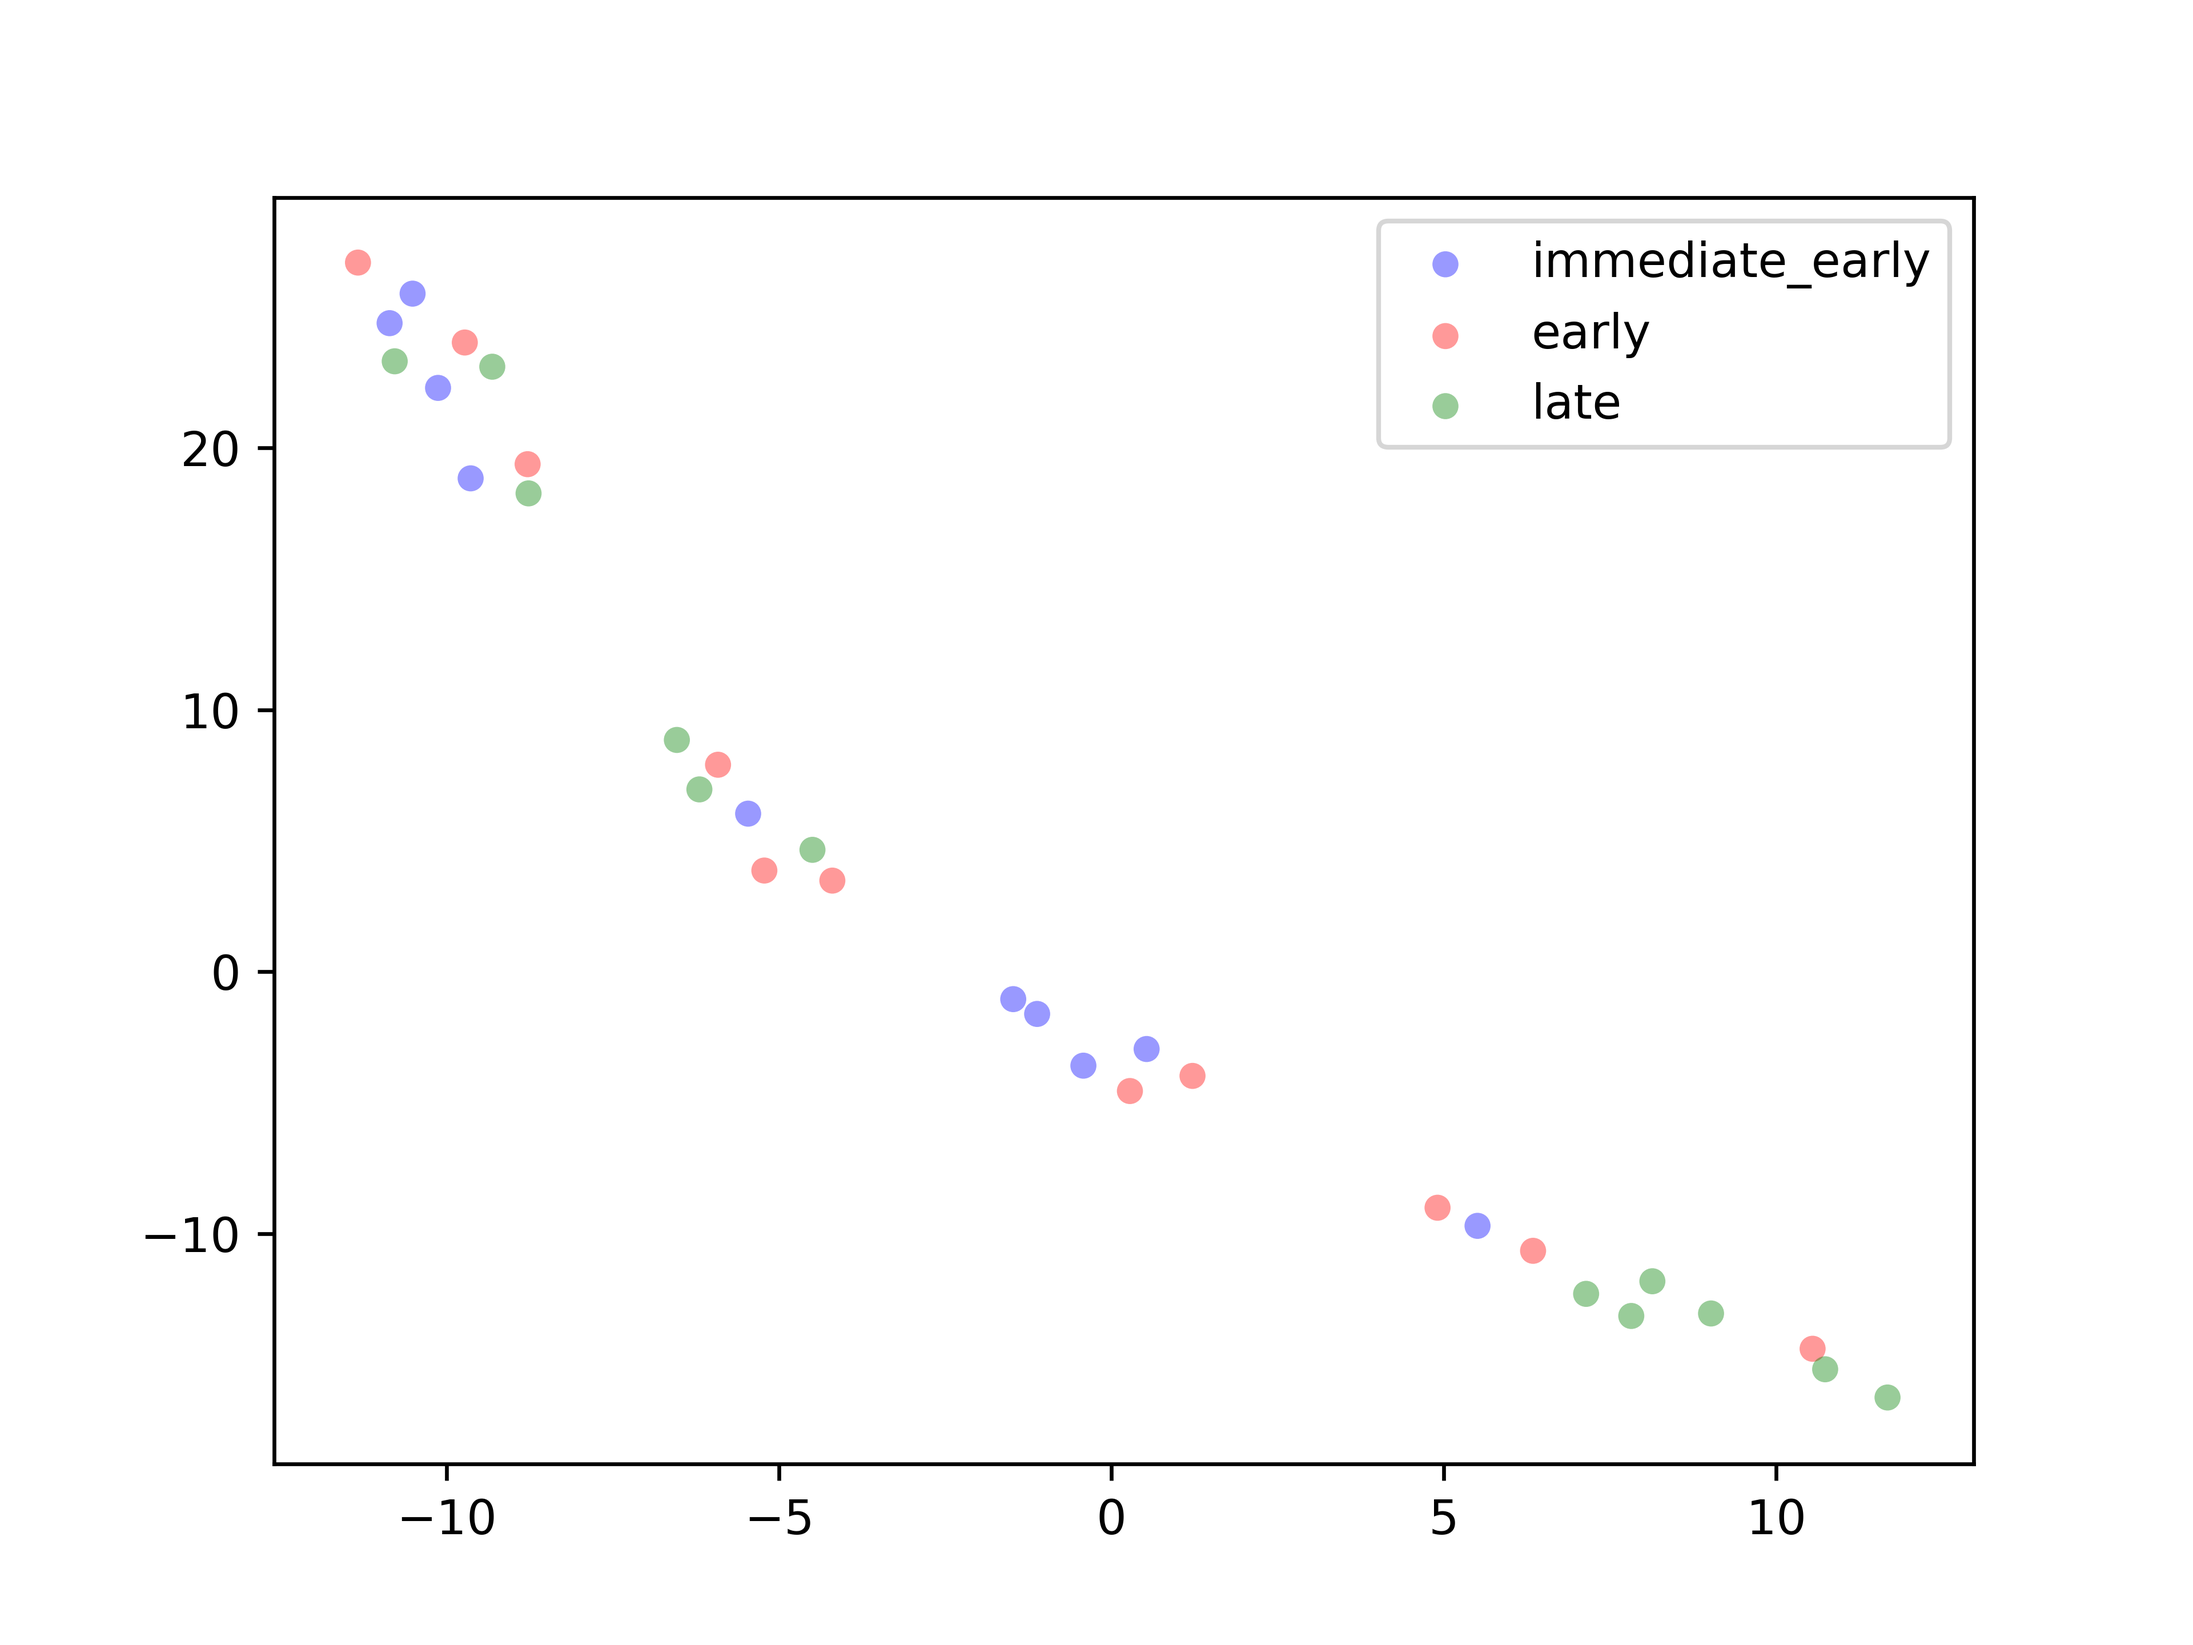
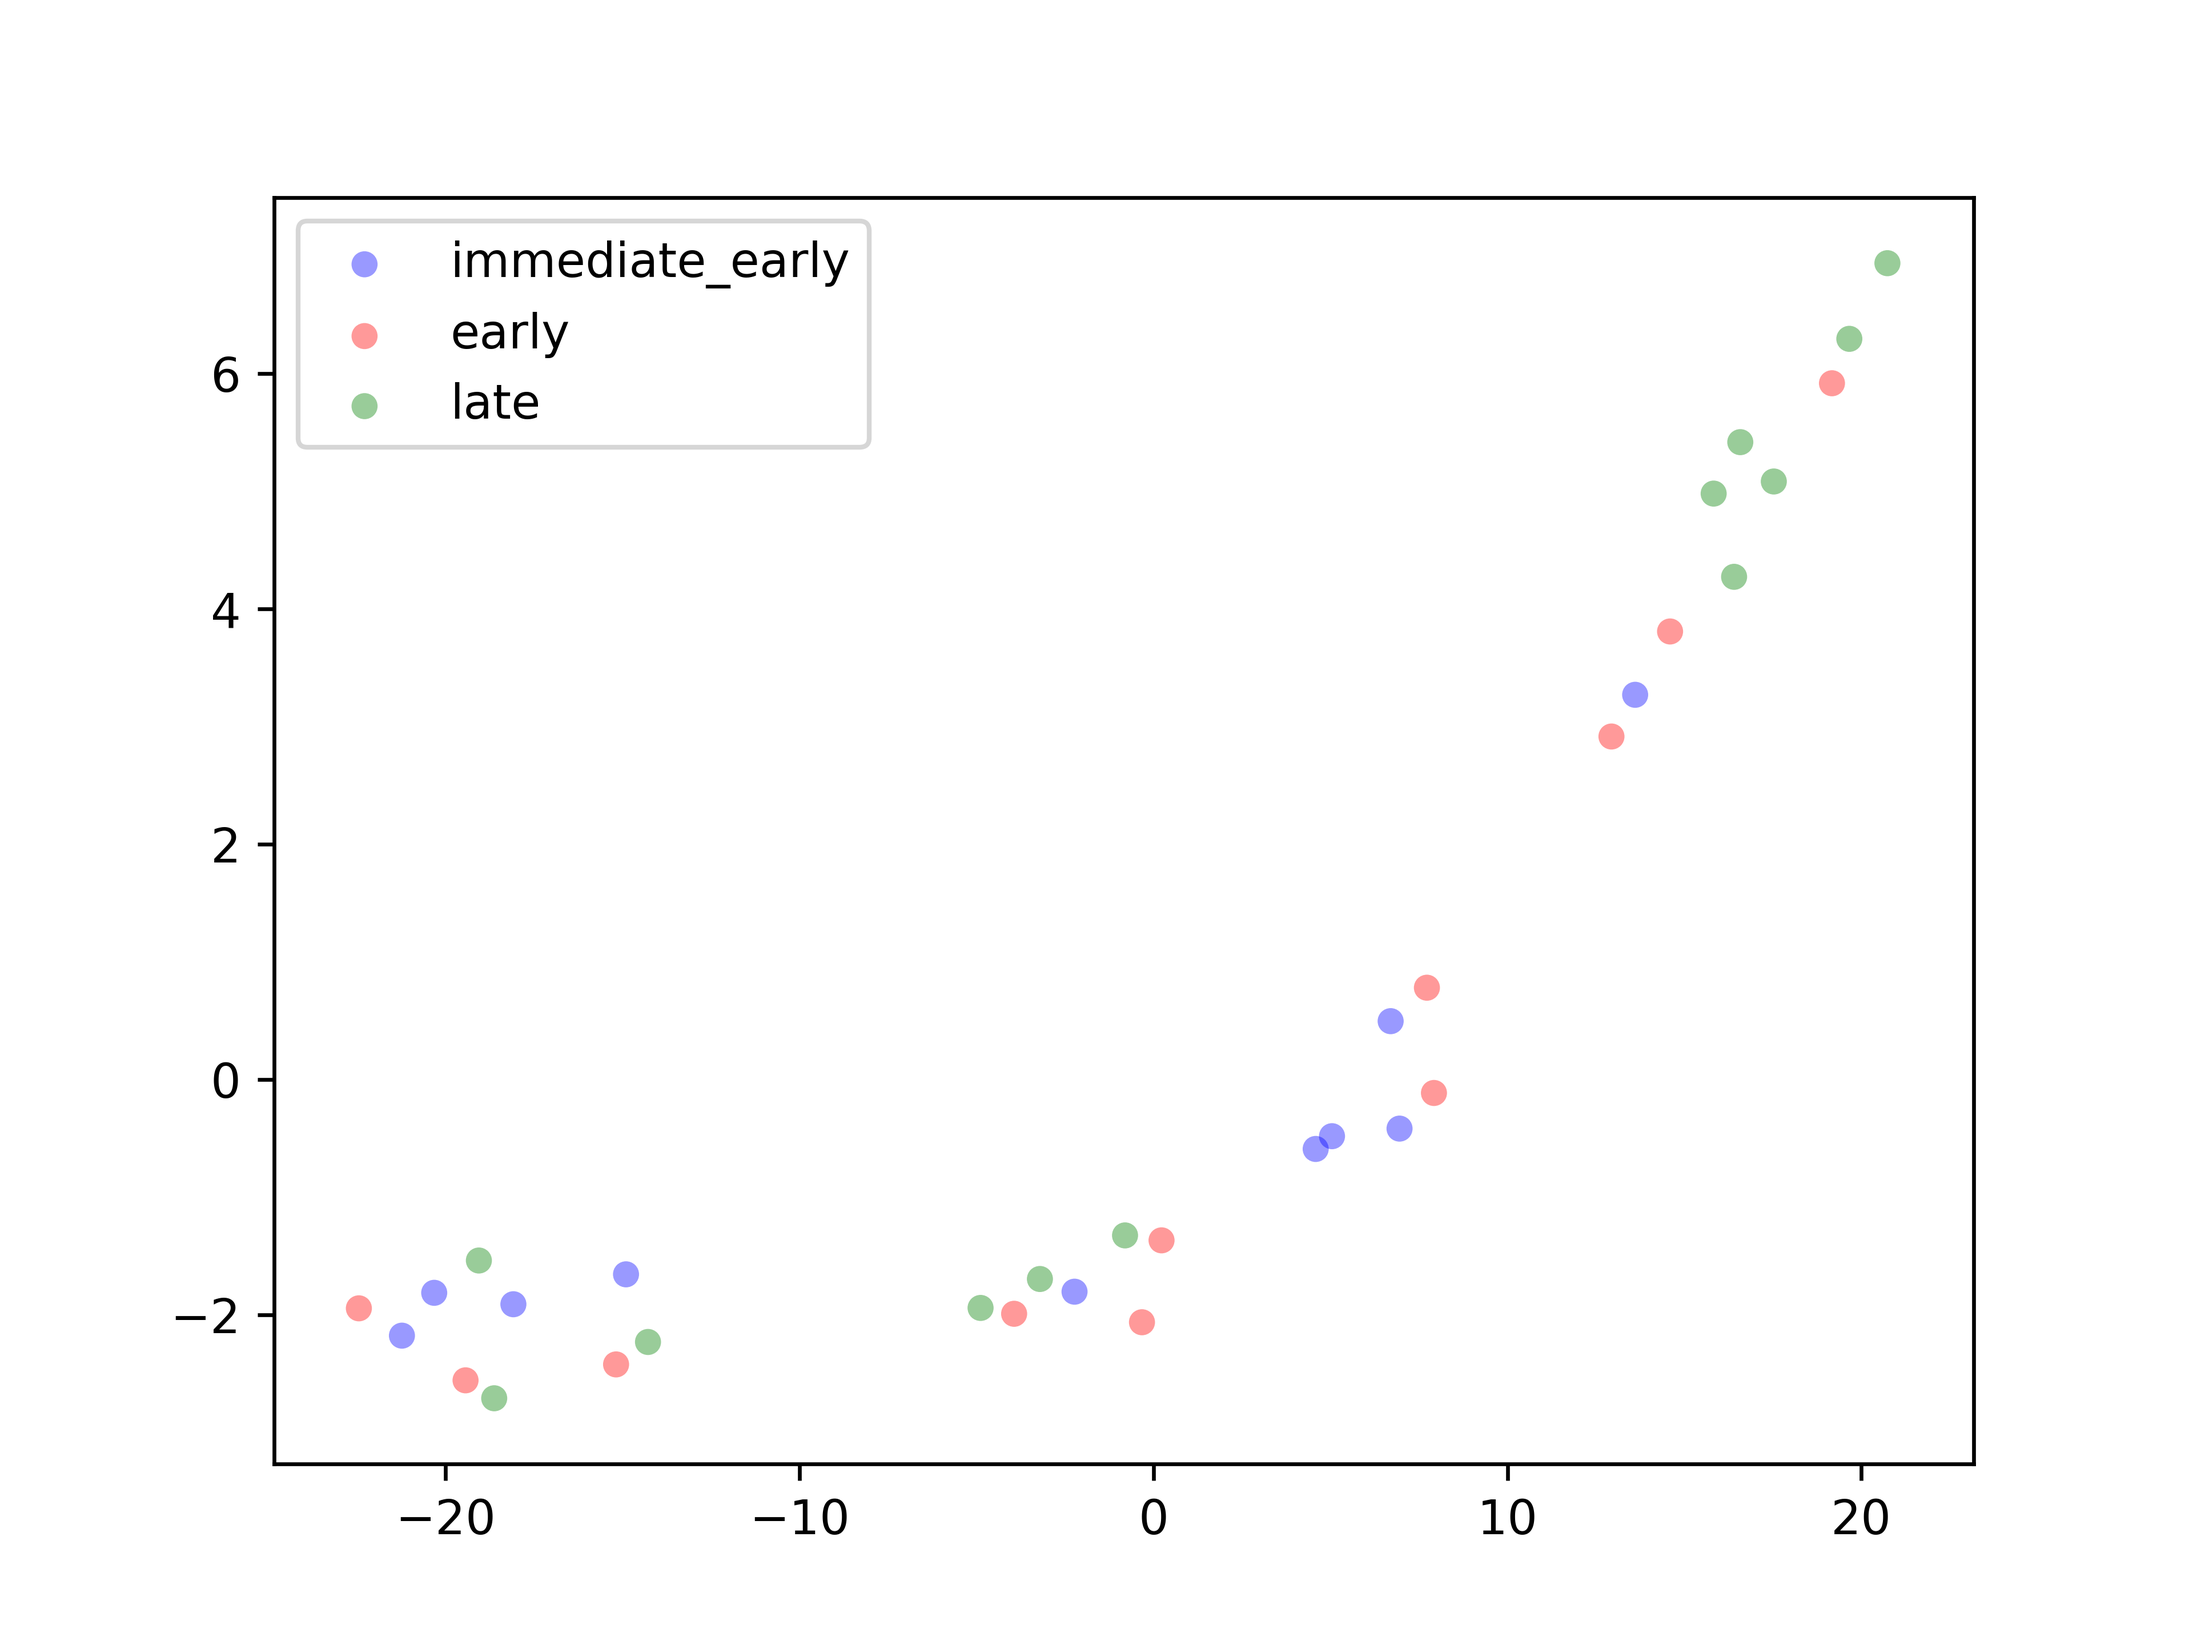
scaled features before pca and t-sne

diff --git a/Classification/PCA.py b/Classification/PCA.py
@@ -4,21 +4,30 @@ from sklearn.manifold import TSNE
 import matplotlib.pyplot as plt
 import helper
 from DataCollection.input_data import get_viruses_data
+from sklearn.preprocessing import StandardScaler
 
 
 def t_sne(features):
     X = features[features.columns[2:-1]]
+
+    std_scaler = StandardScaler()
     tsne = TSNE(n_components=2, perplexity=5, learning_rate=10)
-    results = tsne.fit_transform(X)
+
+    scaled_X = std_scaler.fit_transform(X)
+
+    results = tsne.fit_transform(scaled_X)
     return results
 
 
 def pca(features):
     X = features[features.columns[2:-1]]
+
+    std_scaler = StandardScaler()
     pca = PCA()
 
-    pca.fit(X)
-    results = pca.transform(X)
+    scaled_X = std_scaler.fit_transform(X)
+
+    results = pca.fit_transform(scaled_X)
     return results, pca
 
 
@@ -27,14 +36,22 @@ def plot(features, pca_results, filename, method):
     for i, feat in features.iterrows():
         if feat['label'] == 'immediate-early':
             ie_x.append(pca_results[i][0])
-            ie_y.append(pca_results[i][1])
+            if len(pca_results[i]) > 1:
+                ie_y.append(pca_results[i][1])
+            else:
+                ie_y.append(0)
         elif feat['label'] == 'early':
             e_x.append(pca_results[i][0])
-            e_y.append(pca_results[i][1])
+            if len(pca_results[i]) > 1:
+                e_y.append(pca_results[i][1])
+            else:
+                e_y.append(0)
         elif feat['label'] == 'late':
             l_x.append(pca_results[i][0])
-            l_y.append(pca_results[i][1])
-
+            if len(pca_results[i]) > 1:
+                l_y.append(pca_results[i][1])
+            else:
+                l_y.append(0)
     alpha = 0.4
     size = 30
     fig, ax = plt.subplots()
@@ -43,7 +60,7 @@ def plot(features, pca_results, filename, method):
     ax.scatter(l_x, l_y, c='g', s=size, alpha=alpha, label='late', edgecolors='none')
 
     ax.legend()
-    plt.savefig(f"Classification/Output/{method}_plots/{filename}.png", dpi=600)
+    plt.savefig(f"Classification/Output/{method}_plots/scaled_{filename}.png", dpi=600)
 
 
 def main():
@@ -58,12 +75,17 @@ def main():
 
         pca_results, pca_obj = pca(features)
 
-        print(f'Singular values for {virus["name"]}:\n{pca_obj.singular_values_}\n')
+        print(
+            f'Singular values and explained variance for {virus["name"]}:\n{pca_obj.singular_values_}\n{pca_obj.explained_variance_ratio_}\n')
+        print(f'{pca_obj.components_}')
 
         plot(features, pca_results, virus['name'], 'PCA')
 
     pca_results, pca_obj = pca(combined_features)
-    print(f'Singular values for combination of all herpes viruses:\n{pca_obj.singular_values_}\n')
+    print(
+        f'Singular values and explained variace for combination of all herpes viruses:\n{pca_obj.singular_values_}\n{pca_obj.explained_variance_ratio_}\n')
+    print(f'{pca_obj.components_}')
+
     tsne_results = t_sne(combined_features)
     plot(combined_features, pca_results, 'all_herpes_viruses', 'PCA')
     plot(combined_features, tsne_results, 'all_herpes_viruses', 'TSNE')
